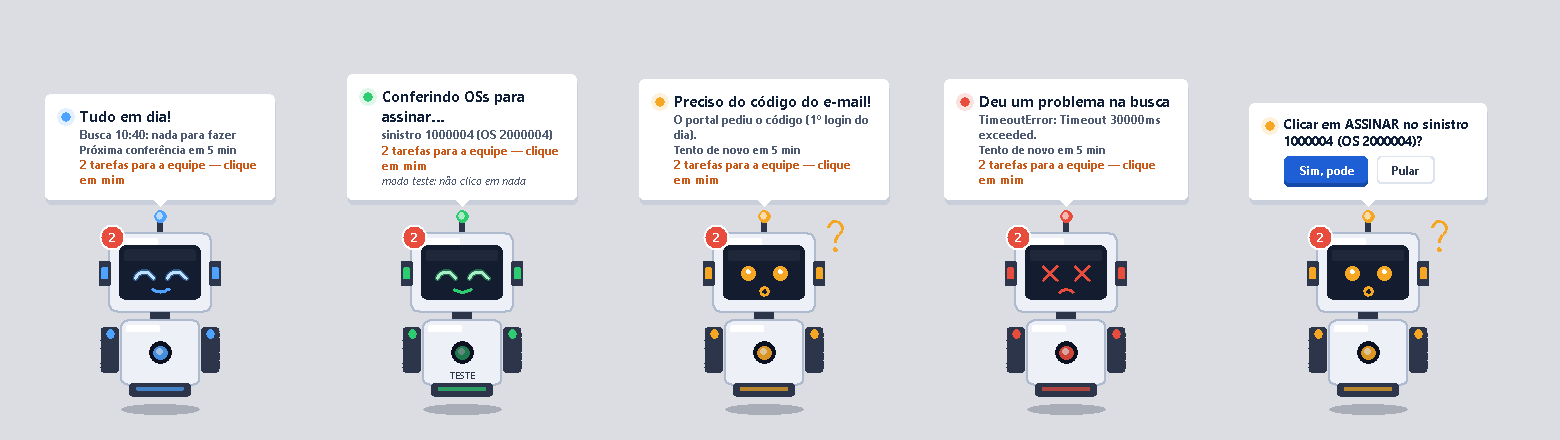
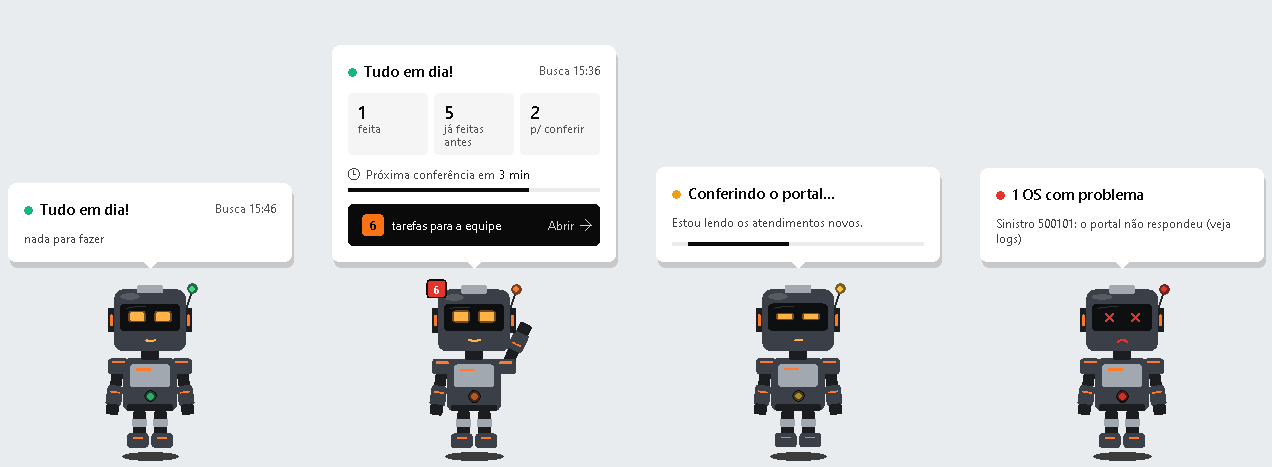
README: interface nova em modo foco e tentativas de contato
- Mascote redesenhado (acena quando há tarefa) e balão com os números do ciclo.
- Janela de tarefas em modo foco: fila à esquerda, cliente em dois passos.
- Fluxos de Logística e Balcão com tentativas excedidas, "nenhum nº tem
  WhatsApp" e "não vai trazer".
- Prints novos com dados inventados.

diff --git a/README.md b/README.md
@@ -41,12 +41,33 @@ Um robô de desktop que:
    recarga no site do intermediador e manda para o dono por WhatsApp.
 7. **Alimenta o sistema interno da empresa**: as coletas (Leva & Traz) entram sozinhas no
    sistema de atendimentos de campo, pela API dele.
-8. **Mostra o que está fazendo** com um mascote animado no canto da tela: azul quando está
-   tudo em dia, verde trabalhando, amarelo precisando de alguém, vermelho com problema.
+8. **Mostra o que está fazendo** com um mascote animado no canto da tela: luzes verdes quando
+   está tudo em dia, **acenando** em laranja quando há tarefa para a equipe, âmbar conferindo
+   o portal ou precisando de alguém, vermelho com problema.
 
-| Janela de tarefas | Depois do conserto (etiqueta) |
+![Janela de tarefas em modo foco](docs/img/janela-tarefas.png)
+
+| Balcão | Depois do conserto (etiqueta) |
 |---|---|
-| ![Janela de tarefas](docs/img/janela-tarefas.png) | ![Pós-conserto](docs/img/janela-pos-conserto.png) |
+| ![Balcão](docs/img/janela-balcao.png) | ![Pós-conserto](docs/img/janela-pos-conserto.png) |
+
+### A interface (redesign de 24/11)
+
+O visual nasceu de um canvas de design (robô, balão e janela) e foi reproduzido no `Canvas`
+do tkinter, sem bibliotecas de interface:
+
+- **Mascote:** robô de armadura grafite com olhos de LED. O humor segue o estado do robô:
+  feliz, concentrado (olhos apertados) ou **acenando** quando há tarefa. O braço é um
+  polígono girado a cada quadro; o SVG tem gradientes e brilho, que viram cores misturadas.
+- **Balão:** a hora da última busca, o resumo do ciclo em números ("1 feita · 5 já feitas
+  antes"), a contagem para a próxima conferência com barra e o botão "N tarefas para a
+  equipe · Abrir".
+- **Janela em modo foco:** à esquerda a fila de tudo que espera a equipe, por grupo; à
+  direita só o cliente escolhido, em dois passos: **1. Fale com o cliente** (telefone,
+  abrir o WhatsApp, outro número, mensagem pronta para copiar e as tentativas já feitas) e
+  **2. O que o cliente respondeu?** (botões grandes). Marcou a resposta, abre o próximo.
+- Tudo é copiável: um clique copia sinistro, OS, produto ou telefone; o botão direito abre
+  "Copiar tudo".
 
 ---
 
@@ -132,9 +153,12 @@ flowchart LR
         L1[OS nova] --> L2[WhatsApp:<br/>'vai enviar?'] --> L3{Cliente}
         L3 -- sim --> L4[Equipe: Confirmou] --> L5[Robô inicia a OS<br/>+ anotação 'aguardando envio']
         L3 -- não --> L6[Equipe: Não vai enviar] --> L7[Robô anota na OS<br/>e encerra a tarefa]
+        L3 -- "sem resposta<br/>3 mensagens" --> L8[Robô anota<br/>'tentativas de contato excedido']
+        L2 -- "nenhum nº tem<br/>WhatsApp" --> L9[Robô anota que falta<br/>um telefone correto]
     end
     subgraph BAL["Balcão (cliente leva na loja)"]
         B1[OS nova] --> B2[WhatsApp: 'aguardamos<br/>no balcão'] --> B3[Equipe: Já avisei] --> B4[Robô inicia a OS]
+        B2 --> B5[Equipe: Não vai trazer] --> B6[Robô anota na OS]
     end
     subgraph LT["Leva & Traz (coleta na casa)"]
         T1[OS nova] --> T0[Cadastra a visita no<br/>sistema interno] --> T2[Robô inicia] --> T3[Agenda retirada com o<br/>endereço DA PRÓPRIA OS] --> T4[Linha pronta<br/>para a planilha de rotas]
@@ -287,7 +311,8 @@ stateDiagram-v2
   lista nova marcando os cards antigos (o Angular reaproveita o DOM) e busca pelo nº do
   sinistro, que é como a equipe trabalha.
 - **Interface sem dependências**: o mascote, os cartões arredondados, os botões e o ícone
-  são desenhados no `Canvas` do tkinter a partir de um mockup de design. O ícone é gerado
+  são desenhados no `Canvas` do tkinter a partir de um mockup de design (polígonos
+  arredondados e girados, halos de cor no lugar do blur do SVG). O ícone é gerado
   em PNG/ICO **sem Pillow**, com supersampling e `zlib`.
 - **Testes sem tocar na produção**: a OS salva em HTML é aberta num Edge headless separado,
   com um "portal falso", para simular o agendamento (inclusive o bug do formulário de outro
@@ -318,9 +343,10 @@ Mermaid para a documentação.
 | `recursos/` | gerador do ícone e do `.exe` |
 | `manutencao/` | scripts para mapear telas do portal quando o layout muda |
 
-> O código deste repositório é a versão anonimizada de 04/11. Os módulos criados depois
-> (impressão da etiqueta, envio conferido de WhatsApp, cadastro no sistema interno e
-> recarga do saldo) estão descritos acima e ficam no repositório privado.
+> O código deste repositório é a versão anonimizada de 04/11. O que veio depois (impressão
+> da etiqueta, envio conferido de WhatsApp, cadastro no sistema interno, recarga do saldo,
+> tentativas de contato e a interface de 24/11) está descrito acima e fica no repositório
+> privado. Os prints usam dados inventados.
 
 ## Como rodar
 
